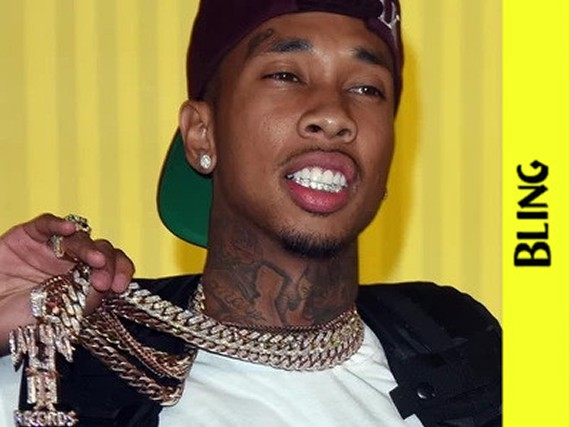
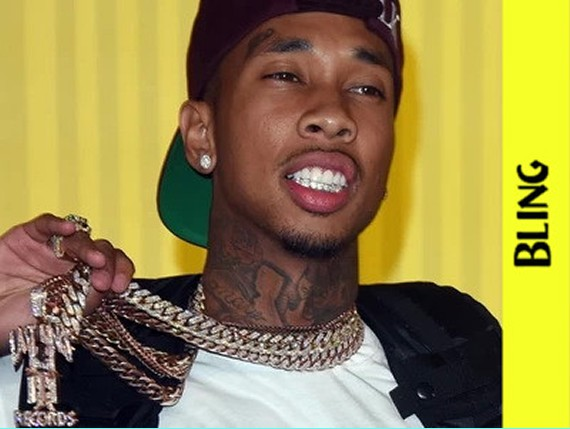
Add files via upload

diff --git a/index.html b/index.html
@@ -27,23 +27,40 @@
         <div class="text">
           <p>Оверсайз — стиль в одежде, в котором размер одежды намеренно сделан больше, объёмнее и свободнее.</p>
           <p>Распространение оверсайза в культуре происходило по нескольким причинам:</p>
-          <p>Донашивание вещей: многодетные семьи из бедных районов Нью-Йорка не могли позволить постоянную покупку новых вещей, поэтому младшие дети донашивали вещи за старшими, либо одежда изначально покупалась на размеры больше.</p>
+          <p>Многодетные семьи из бедных районов Нью-Йорка не могли позволить постоянную покупку новых вещей, поэтому младшие дети донашивали вещи за старшими, либо одежда изначально покупалась на размеры больше.</p>
           <p>Также практичность для танцев — свободные вещи не сковывали движения в танце.</p>
         </div>
         <img src="images/oversize.jpg" alt="Двое мужчин в мешковатой одежде на улице">
       </div>
+      <p class="after">
+        Постепенно стиль оверсайз стал популярным за пределами хип-хоп-сообщества. Дизайнеры начали использовать свободные силуэты в своих коллекциях, а крупные бренды стали выпускать объёмные футболки, худи, куртки и брюки. Сегодня оверсайз является одним из распространённых направлений повседневной моды.
+      </p>
     </section>
 
-    <!-- Раздел 2: Блинг-блинг -->
+    <!-- Раздел 2: Блинг-блинг (картинка слева) -->
     <section class="section">
       <h2>Блинг-блинг.</h2>
-      <div class="row">
+      <div class="row reverse">
         <div class="text">
           <p>Блинг-блинг — это выражение, означающее массивные, дорогие ювелирные украшения.</p>
-          <p>Рэперы стали носить массивные украшения как способ показа перехода с бедных улиц до финансового успеха. Термин стал популярен после трека «Bling Bling» артиста B.G. в 1999 году.</p>
+          <p>Рэперы стали носить массивные украшения как способ показа перехода с бедных улиц до финансового успеха. Термин стал популярен после трека «Bling Bling» артиста B.G. (участник рэп-группы Hot Boyz) в 1999 году.</p>
+          <p>Ношение тяжёлых золотых цепей существовало в рэпе ещё с 1980-х, но именно на рубеже веков (1997–2006) показная роскошь стала главным визуальным языком коммерческого хип-хопа.</p>
         </div>
         <img src="images/bling.jpg" alt="Мужчина с массивными золотыми цепями">
       </div>
+      <p class="after">
+        Первым люксовым модным домом высокого эшелона, который перенес эстетику уличного хип-хопа на подиум Парижа, стал Chanel в 1991 году. Дизайнер
+        <a href="https://ru.wikipedia.org/wiki/Лагерфельд,_Карл" target="_blank" rel="noopener">Карл Лагерфельд</a>
+        создал осенне-зимнюю коллекцию Ready-to-Wear 1991, которую сам же открыто назвал «Nouveau Rappeur» («Новый рэпер»).
+      </p>
+
+      <!-- Три фото коллекции Chanel -->
+      <div class="gallery">
+        <img src="images/chanel1.jpg" alt="Модель Chanel в чёрном платье с золотыми цепями">
+        <img src="images/chanel2.jpg" alt="Модель Chanel с массивными цепями и логотипом">
+        <img src="images/chanel3.jpg" alt="Модель Chanel в синем жакете и золотых цепях">
+      </div>
+      <p class="caption">Коллекция Chanel «Осень-Зима 1991/92»</p>
     </section>
 
   </main>

diff --git a/style.css b/style.css
@@ -19,7 +19,7 @@ body {
   padding: 60px 40px;
 }
 
-/* ---------- Заголовки ---------- */
+/* ---------- Заголовки и текст ---------- */
 h1 {
   text-align: center;
   font-size: 48px;
@@ -38,12 +38,21 @@ p {
   margin: 0 0 12px;
 }
 
+a {
+  color: #000;
+}
+
 .intro {
   margin-bottom: 90px;
 }
 
 .section {
   margin-bottom: 90px;
+}
+
+/* Абзац под блоком «текст + картинка» */
+.after {
+  margin-top: 60px;
 }
 
 /* ---------- Текст + картинка в одну строку (ПК) ---------- */
@@ -63,8 +72,37 @@ p {
   display: block;
 }
 
+/* Блок, где картинка стоит слева, а текст справа */
+.row.reverse {
+  flex-direction: row-reverse;
+}
+
+/* ---------- Галерея Chanel: три фото в ряд ---------- */
+.gallery {
+  display: flex;
+  justify-content: center;
+  gap: 40px;
+  margin-top: 50px;
+}
+
+.gallery img {
+  height: 480px;                /* одинаковая высота, ширина по пропорциям */
+  width: auto;
+  max-width: 100%;
+}
+
+.caption {
+  text-align: center;
+  font-style: italic;
+  margin-top: 20px;
+}
+
 /* ---------- Планшеты и телефоны (экран уже 800px) ---------- */
 @media (max-width: 800px) {
+  body {
+    font-size: 16px;
+  }
+
   .page {
     padding: 30px 20px;
   }
@@ -79,22 +117,35 @@ p {
     margin-bottom: 20px;
   }
 
-  body {
-    font-size: 16px;
-  }
-
   .intro,
   .section {
     margin-bottom: 50px;
   }
 
+  .after {
+    margin-top: 30px;
+  }
+
   /* Картинка уходит под текст */
-  .row {
+  .row,
+  .row.reverse {
     flex-direction: column;
     gap: 24px;
   }
 
   .row img {
     width: 100%;
+  }
+
+  /* Фото Chanel друг под другом */
+  .gallery {
+    flex-direction: column;
+    align-items: center;
+    gap: 20px;
+  }
+
+  .gallery img {
+    width: 100%;
+    height: auto;
   }
 }
